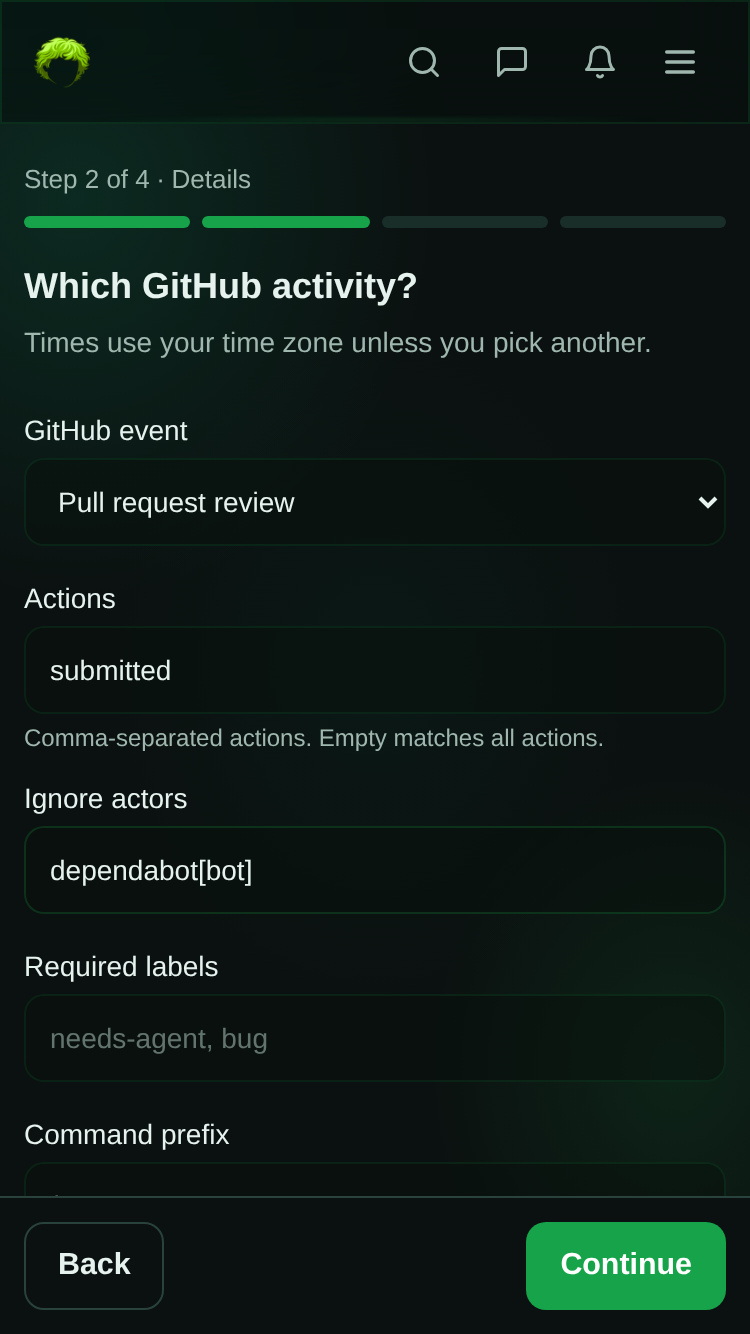
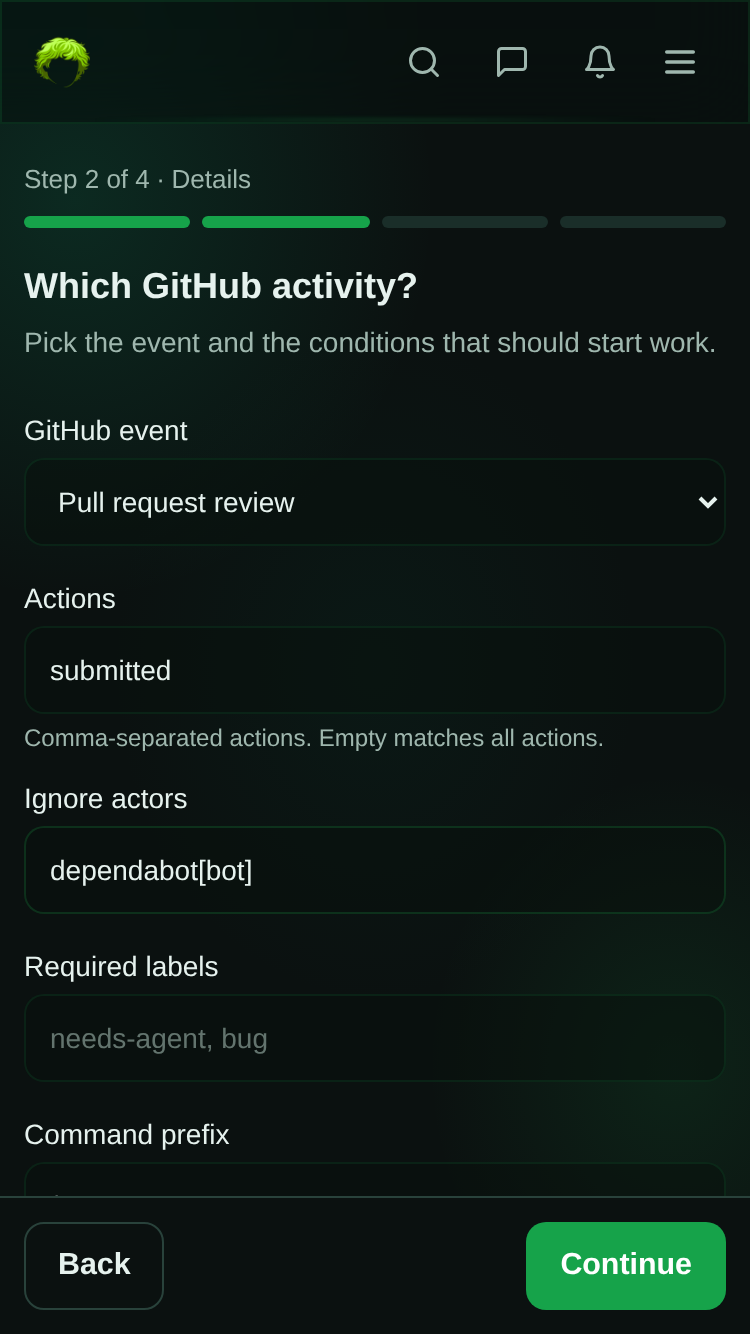
fix(triggers): expose saved filters and validate review settings

Changed region(s): [[0.0307, 0.2459, 0.9507, 0.2766]]

diff --git a/apps/web/src/pages/automation/advanced-rows.tsx b/apps/web/src/pages/automation/advanced-rows.tsx
@@ -7,6 +7,7 @@ import type {
   ProjectStandingWatch,
   TriggerResponse,
 } from '@simple-agent-manager/shared';
+import { isGitHubCommentEvent, isGitHubPullRequestEvent } from '@simple-agent-manager/shared';
 import type { ReactNode } from 'react';
 
 import {
@@ -47,16 +48,36 @@ function sourceRows(trigger: TriggerResponse): Rows {
       const rows: Rows = [['GitHub event', mono(eventType)]];
       if (eventType !== 'push') rows.push(['Actions', listOr(filters.actions, 'Any')]);
       if (eventType !== 'push') rows.push(['Required labels', listOr(filters.labels, 'None')]);
-      if (eventType === 'issue_comment')
+      if (isGitHubCommentEvent(eventType))
         rows.push([
           'Comment starts with',
           filters.commandPrefix ? mono(filters.commandPrefix) : 'Anything',
         ]);
       if (eventType !== 'push') rows.push(['Text contains', filters.bodyContains || 'Anything']);
-      if (eventType === 'push' || eventType === 'pull_request')
+      if (eventType === 'push' || isGitHubPullRequestEvent(eventType))
         rows.push(['Branches', listOr(filters.branches, 'Any')]);
       if (eventType === 'pull_request')
         rows.push(['Draft pull requests', filters.ignoreDrafts === false ? 'Included' : 'Ignored']);
+      if (
+        ['issues', 'pull_request'].includes(eventType) &&
+        (!filters.actions?.length ||
+          filters.actions.some((action) => ['labeled', 'unlabeled'].includes(action))) &&
+        filters.addedLabel
+      )
+        rows.push(['Changed label (label actions only)', filters.addedLabel]);
+      if (isGitHubCommentEvent(eventType) && filters.commentContains)
+        rows.push(['Comment contains', filters.commentContains]);
+      if (eventType === 'pull_request_review' && filters.reviewStates?.length)
+        rows.push(['Review states', filters.reviewStates.join(', ')]);
+      if (eventType !== 'push' && filters.isPullRequest !== undefined)
+        rows.push(['Subject', filters.isPullRequest ? 'Pull requests only' : 'Issues only']);
+      if (eventType !== 'push' && filters.authorAssociation?.length)
+        rows.push([
+          'Author association (sender must be author)',
+          filters.authorAssociation.join(', '),
+        ]);
+      rows.push(['Allowed actors', listOr(filters.actors, 'Anyone')]);
+      rows.push(['Ignore bot actors', filters.ignoreBots ? 'Yes' : 'No']);
       rows.push(['Ignored accounts', listOr(filters.ignoreActors, 'None')]);
       return rows;
     }

diff --git a/apps/web/tests/playwright/github-trigger-controls-audit.spec.ts b/apps/web/tests/playwright/github-trigger-controls-audit.spec.ts
@@ -226,7 +226,7 @@ test('GitHub filters, reviews, recent-delivery snapshot and context variables', 
   await page.getByLabel('GitHub event', { exact: true }).scrollIntoViewIfNeeded();
   await audit(page, 'github-review-filters-top');
   await page.getByRole('button', { name: 'Test against recent deliveries' }).click();
-  await expect(page.getByText('payload_unavailable').first()).toBeVisible();
+  await expect(page.getByText('Payload was not retained or has expired.').first()).toBeVisible();
   await page
     .getByRole('button', { name: 'Test against recent deliveries' })
     .scrollIntoViewIfNeeded();
@@ -254,4 +254,39 @@ test('GitHub filters, reviews, recent-delivery snapshot and context variables', 
   await expect(page.getByRole('button', { name: 'commentId', exact: true })).toBeVisible();
   await page.getByRole('button', { name: 'commentId', exact: true }).scrollIntoViewIfNeeded();
   await audit(page, 'github-template-context');
+});
+
+test('saved GitHub review filters stay inspectable under Advanced', async ({ page }) => {
+  await setupAgentEmailMocks(page, {
+    triggers: [
+      emailTrigger({
+        id: 'review',
+        sourceType: 'github',
+        name: 'Review ' + 'long title '.repeat(22),
+        githubConfig: {
+          eventType: 'pull_request_review',
+          filters: {
+            actions: ['submitted'],
+            actors: ['alice', 'bob'],
+            ignoreActors: [],
+            authorAssociation: ['MEMBER'],
+            ignoreBots: true,
+            commentContains: '/sam',
+            commandPrefix: '/sam',
+            reviewStates: ['changes_requested'],
+            isPullRequest: true,
+            branches: ['feature/very-long-branch-name'],
+          },
+        },
+      }),
+    ],
+  });
+  await page.goto(`${BASE}/trigger/review`);
+  await page.getByTestId('automation-advanced').locator('summary').click();
+  await expect(
+    page.getByText('Author association (sender must be author)', { exact: true })
+  ).toBeVisible();
+  await expect(page.getByText('Allowed actors', { exact: true })).toBeVisible();
+  await page.getByText('Review states', { exact: true }).scrollIntoViewIfNeeded();
+  await audit(page, 'github-saved-review-filters');
 });

diff --git a/apps/web/src/pages/automation/editor/requests.ts b/apps/web/src/pages/automation/editor/requests.ts
@@ -15,6 +15,8 @@ import {
   DEFAULT_TRIGGER_MAX_CONCURRENT_LIMIT,
   DEFAULT_TRIGGER_NAME_MAX_LENGTH,
   type EmailTriggerConfigInput,
+  GITHUB_AUTHOR_ASSOCIATIONS,
+  GITHUB_REVIEW_STATES,
   PROJECT_EVENT_CHANNEL_SOURCE,
   PROJECT_EVENT_CHANNEL_TYPE,
   PROJECT_EVENT_SEVERITIES,
@@ -287,6 +289,18 @@ export function validateStep(
       const filters = buildGitHubFilters(githubInput(state));
       if (!areGitHubTriggerActionsValid(state.github.eventType, filters.actions))
         errors.github = 'Some actions do not exist for this GitHub event.';
+      if (
+        filters.authorAssociation?.some(
+          (value) => !(GITHUB_AUTHOR_ASSOCIATIONS as readonly string[]).includes(value)
+        )
+      )
+        errors.github = 'Choose an author association from the listed GitHub values.';
+      if (
+        filters.reviewStates?.some(
+          (value) => !(GITHUB_REVIEW_STATES as readonly string[]).includes(value)
+        )
+      )
+        errors.github = 'Choose a review state from the listed GitHub values.';
     }
     if (state.start === 'webhook' && state.webhook.filters.some((filter) => !filter.path.trim()))
       errors.webhook = 'Every filter needs a path, like event.action.';

diff --git a/apps/web/tests/unit/pages/automation-editor-logic.test.ts b/apps/web/tests/unit/pages/automation-editor-logic.test.ts
@@ -688,3 +688,34 @@ describe('email start defaults (picked on Step 1, never from an effect)', () => 
     expect(withEmailDefaults(githubState, 'me@example.com')).toBe(githubState);
   });
 });
+
+describe('review filter validation before save', () => {
+  it('rejects unknown association and review-state values in the details step', () => {
+    const state = newEditorState({ start: 'github' }, NOW);
+    const github = {
+      ...state.github,
+      eventType: 'pull_request_review' as const,
+      actions: 'submitted',
+      authorAssociation: 'ADMIN',
+      reviewStates: '',
+    };
+    expect(validateStep({ ...state, github }, 'when', CAN).github).toContain('author association');
+    expect(
+      validateStep(
+        { ...state, github: { ...github, authorAssociation: 'MEMBER', reviewStates: 'accepted' } },
+        'when',
+        CAN
+      ).github
+    ).toContain('review state');
+    expect(
+      validateStep(
+        {
+          ...state,
+          github: { ...github, authorAssociation: 'MEMBER', reviewStates: 'changes_requested' },
+        },
+        'when',
+        CAN
+      ).github
+    ).toBeUndefined();
+  });
+});

diff --git a/apps/web/src/components/triggers/GitHubFilterPreview.tsx b/apps/web/src/components/triggers/GitHubFilterPreview.tsx
@@ -78,7 +78,15 @@ export function GitHubFilterPreview({
                 {row.action ? ` / ${row.action}` : ''}
                 {' · '}
                 {row.receivedAt}
-                <p className="m-0 text-xs text-fg-muted">{row.reason}</p>
+                <p className="m-0 text-xs text-fg-muted">
+                  {row.reason === 'payload_unavailable'
+                    ? 'Payload was not retained or has expired.'
+                    : row.reason === 'payload_invalid'
+                      ? 'Stored payload could not be read.'
+                      : row.reason === 'matched'
+                        ? 'All configured filters passed.'
+                        : row.reason}
+                </p>
               </li>
             ))}
           </ul>

diff --git a/apps/web/src/pages/automation/editor/EditorFlow.tsx b/apps/web/src/pages/automation/editor/EditorFlow.tsx
@@ -52,6 +52,7 @@ const WHEN_TITLES: Partial<Record<NonNullable<EditorState['start']>, string>> = 
 
 /** Email runs when mail arrives, so the default note about time zones does not apply. */
 const WHEN_HINTS: Partial<Record<NonNullable<EditorState['start']>, string>> = {
+  github: 'Pick the event and the conditions that should start work.',
   email: 'Mail whose From address is on this list starts it.',
 };
 

diff --git a/apps/web/src/pages/automation/editor/steps-start-when.tsx b/apps/web/src/pages/automation/editor/steps-start-when.tsx
@@ -31,7 +31,7 @@ const STARTS: Array<{ id: AutomationStart; title: string; text: string; advanced
   {
     id: 'github',
     title: 'When something happens on GitHub',
-    text: 'New issues, comments, pull requests or pushes.',
+    text: 'Issues, comments, pull requests, reviews or pushes.',
   },
   {
     id: 'webhook',

diff --git a/docs/audits/2026-10-26-github-trigger-controls.md b/docs/audits/2026-10-26-github-trigger-controls.md
@@ -64,3 +64,10 @@ Refreshed audit:2/2PASS with normal/many30rows, empty and API500 error results,
 stale draft notice, and focused commentId context picker on both viewports. Ten
 screenshots inspected; no horizontal overflow or clipping assertions failed. The
 HTML/script-looking command text remains an input value, never rendered as markup.
+
+Opus inspection identified saved Advanced filter visibility and client enum validation
+as gaps. Added scoped rows for every new filter, comment/review prefix and branch
+scope, validation using shared association/state constants, and GitHub-specific hint.
+Unavailable payload reasons now use plain words in the UI. Follow-up Playwright4/4PASS,
+12 inspected screenshots including saved review details on desktop/mobile; web unit
+suite74PASS. Opus final verdict remains pending on pushed follow-up.
